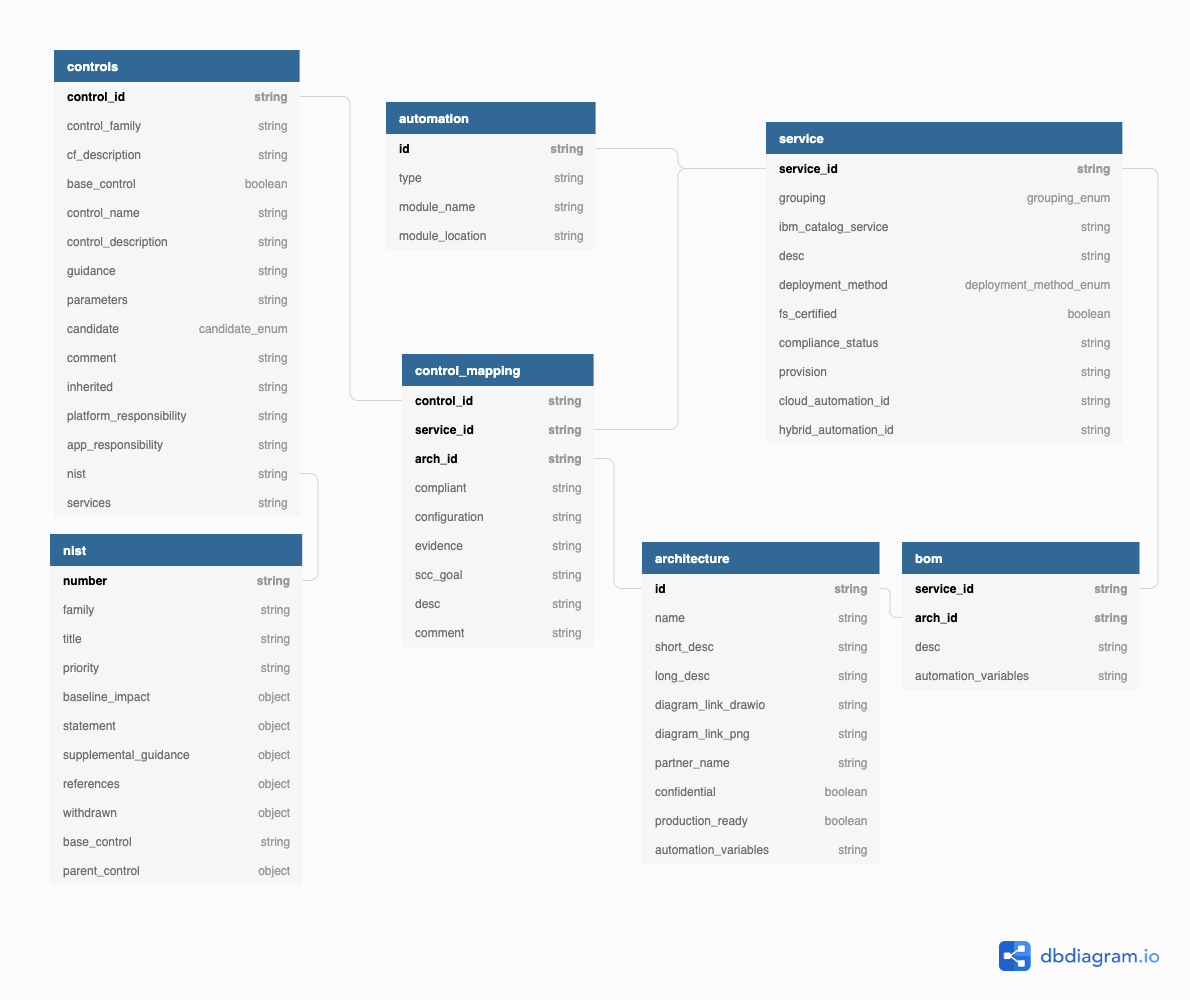
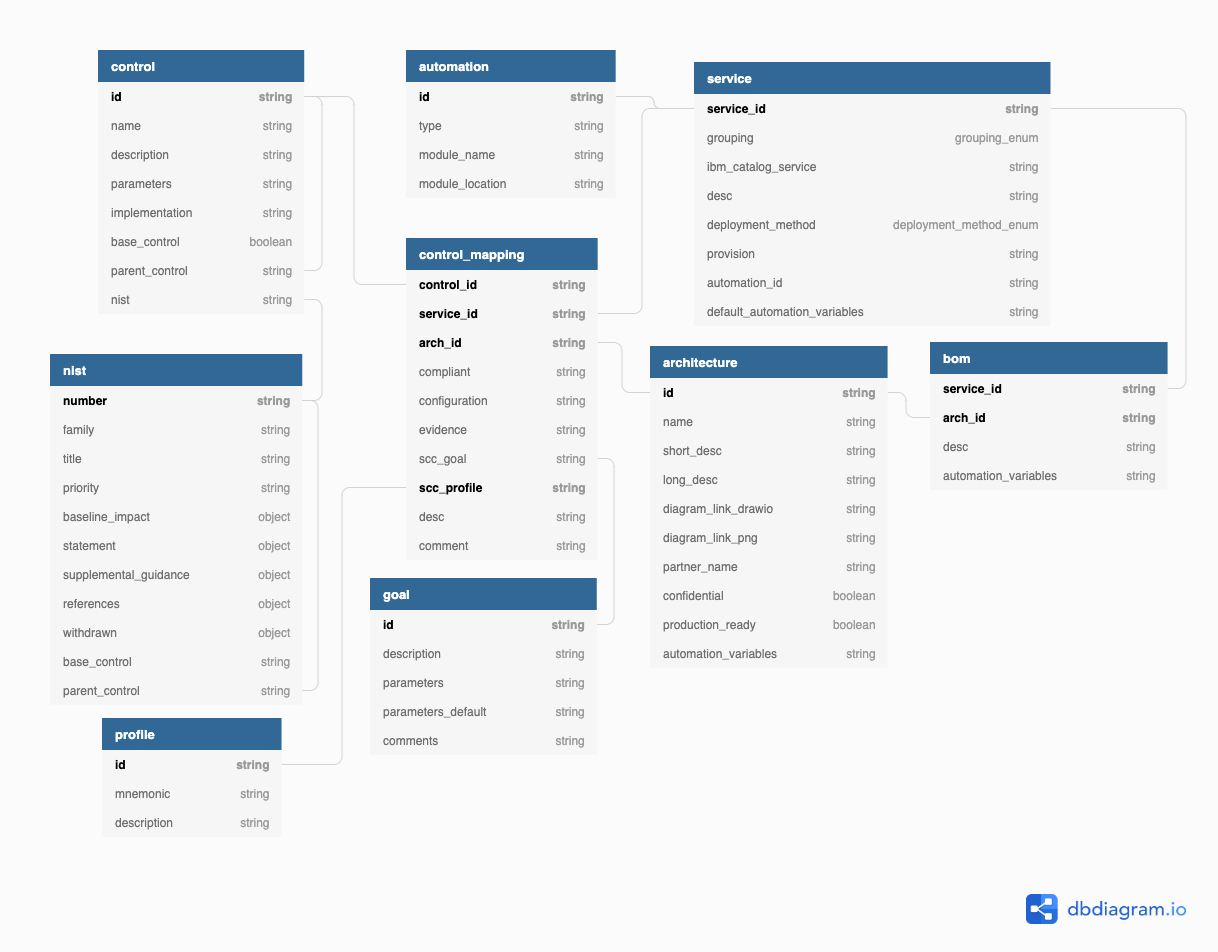
Controls injest

diff --git a/src/__tests__/acceptance/controls.controller.acceptance.ts b/src/__tests__/acceptance/controls.controller.acceptance.ts
@@ -35,19 +35,10 @@ describe('Controls', () => {
   it('POST a control', async () => {
     await client
       .post('/controls').send({
-        "control_id": testControlId,
-        "control_family": "test control_family",
-        "cf_description": "test cf_description",
-        "base_control": true,
-        "control_name": "test control_name",
-        "control_description": "test control_description",
-        "guidance": "test guidance",
-        "parameters": "test parameters",
-        "candidate": "test candidate",
-        "comment": "test comment",
-        "inherited": "test inherited",
-        "platform_responsibility": "test platform_responsibility",
-        "app_responsibility": "test app_responsibility"
+        "id": testControlId,
+        "name": "test name",
+        "description": "test description",
+        "implementation": "test implementation",
       })
       .expect(200)
       .expect('Content-Type', /application\/json/);
@@ -63,11 +54,11 @@ describe('Controls', () => {
   it('PATCH a control', async () => {
     await client
       .patch(`/controls/${testControlId}`).send({
-        "comment": "test comment updated"
+        "description": "test description updated"
       })
       .expect(200)
       .expect('Content-Type', /application\/json/)
-      .expect(/{.*"comment":"test comment updated".*}/);
+      .expect(/{.*"description":"test description updated".*}/);
   });
 
   it('DELETE a control', async () => {
@@ -79,7 +70,7 @@ describe('Controls', () => {
   it('PATCH all controls', async () => {
     await client
       .patch(`/controls`).send({
-        "comment": "test comment updated"
+        "base_control": true
       })
       .expect(200)
       .expect('Content-Type', /application\/json/)

diff --git a/src/models/controls.model.ts b/src/models/controls.model.ts
@@ -12,72 +12,40 @@ export class Controls extends Entity {
     id: true,
     generated: false
   })
-  control_id: string;
+  id: string;
 
   @property({
     type: 'string',
-    required: true,
+    required: true
   })
-  control_family: string;
+  name: string;
 
   @property({
     type: 'string',
-    required: true,
+    required: true
   })
-  cf_description: string;
+  description: string;
 
   @property({
-    type: 'boolean',
-    required: true,
+    type: 'string',
+    required: true
+  })
+  implementation: string;
+
+  @property({
+    type: 'string'
+  })
+  parameters: string;
+
+  @property({
+    type: 'boolean'
   })
   base_control: boolean;
 
   @property({
-    type: 'string',
-    required: true,
+    type: 'string'
   })
-  control_name: string;
-
-  @property({
-    type: 'string',
-    required: true,
-  })
-  control_description: string;
-
-  @property({
-    type: 'string',
-  })
-  guidance?: string;
-
-  @property({
-    type: 'string',
-  })
-  parameters?: string;
-
-  @property({
-    type: 'string',
-  })
-  candidate?: string;
-
-  @property({
-    type: 'string',
-  })
-  comment?: string;
-
-  @property({
-    type: 'string',
-  })
-  inherited?: string;
-
-  @property({
-    type: 'string',
-  })
-  platform_responsibility?: string;
-
-  @property({
-    type: 'string',
-  })
-  app_responsibility?: string;
+  parent_control: string;
 
   @hasOne(() => Nist, {keyTo: 'number'})
   nist: Nist;

diff --git a/src/controllers/control-mapping.controller.ts b/src/controllers/control-mapping.controller.ts
@@ -61,7 +61,7 @@ export class ControlMappingController {
         },
     })
     async findControlServices(
-        @param.path.string('id') id: typeof Controls.prototype.control_id,
+        @param.path.string('id') id: typeof Controls.prototype.id,
         @param.filter(Services) filter?: Filter<Services>,
     ): Promise<Services[]> {
         return this.controlsRepository.services(id).find(filter);
@@ -80,7 +80,7 @@ export class ControlMappingController {
         },
     })
     async findControlArchitectures(
-        @param.path.string('id') id: typeof Controls.prototype.control_id,
+        @param.path.string('id') id: typeof Controls.prototype.id,
         @param.filter(Architectures) filter?: Filter<Architectures>,
     ): Promise<Architectures[]> {
         return this.controlsRepository.architectures(id).find(filter);

diff --git a/src/repositories/controls.repository.ts b/src/repositories/controls.repository.ts
@@ -6,7 +6,7 @@ import { NistRepository, ServicesRepository, ControlMappingRepository, Architect
 
 export class ControlsRepository extends DefaultCrudRepository<
   Controls,
-  typeof Controls.prototype.control_id
+  typeof Controls.prototype.id
   > {
 
   public readonly nist: HasOneRepositoryFactory<Nist, typeof Nist.prototype.number>;
@@ -15,14 +15,14 @@ export class ControlsRepository extends DefaultCrudRepository<
     Services,
     typeof Services.prototype.service_id,
     ControlMapping,
-    typeof Controls.prototype.control_id
+    typeof Controls.prototype.id
   >;
 
   public readonly architectures: HasManyThroughRepositoryFactory<
   Architectures,
     typeof Architectures.prototype.arch_id,
     ControlMapping,
-    typeof Controls.prototype.control_id
+    typeof Controls.prototype.id
   >;
 
   constructor(

diff --git a/src/controllers/controls-nist.controller.ts b/src/controllers/controls-nist.controller.ts
@@ -10,7 +10,7 @@ export class ControlsNistController {
 
   @get('/controls/{id}/nist')
   async findNistFromControlId(
-    @param.path.string('id') id: typeof Controls.prototype.control_id,
+    @param.path.string('id') id: typeof Controls.prototype.id,
     @param.query.object('filter') filter?: Filter<Nist>,
   ): Promise<Nist> {
     return this.controlsRepository.nist(id).get(filter);

diff --git a/src/repositories/services.repository.ts b/src/repositories/services.repository.ts
@@ -11,7 +11,7 @@ export class ServicesRepository extends DefaultCrudRepository<
 
   public readonly controls: HasManyThroughRepositoryFactory<
     Controls,
-    typeof Controls.prototype.control_id,
+    typeof Controls.prototype.id,
     ControlMapping,
     typeof Services.prototype.service_id
   >;
